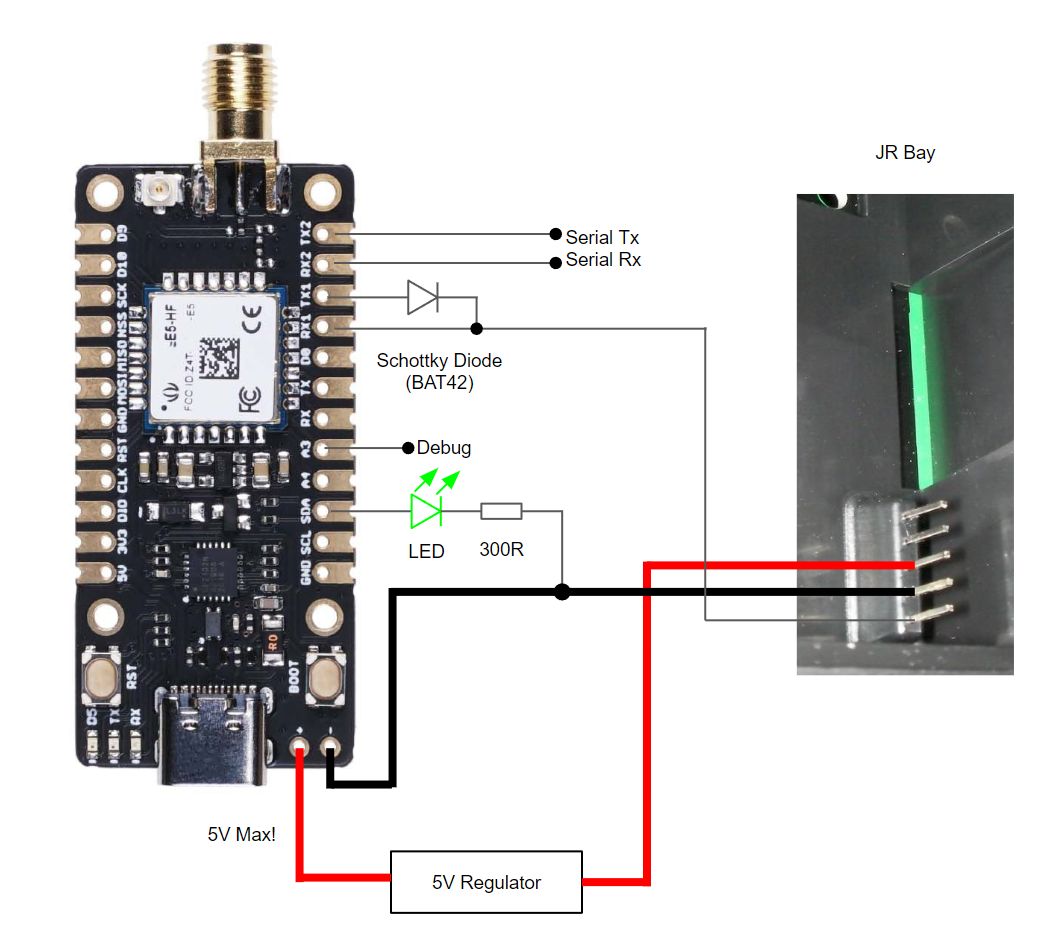
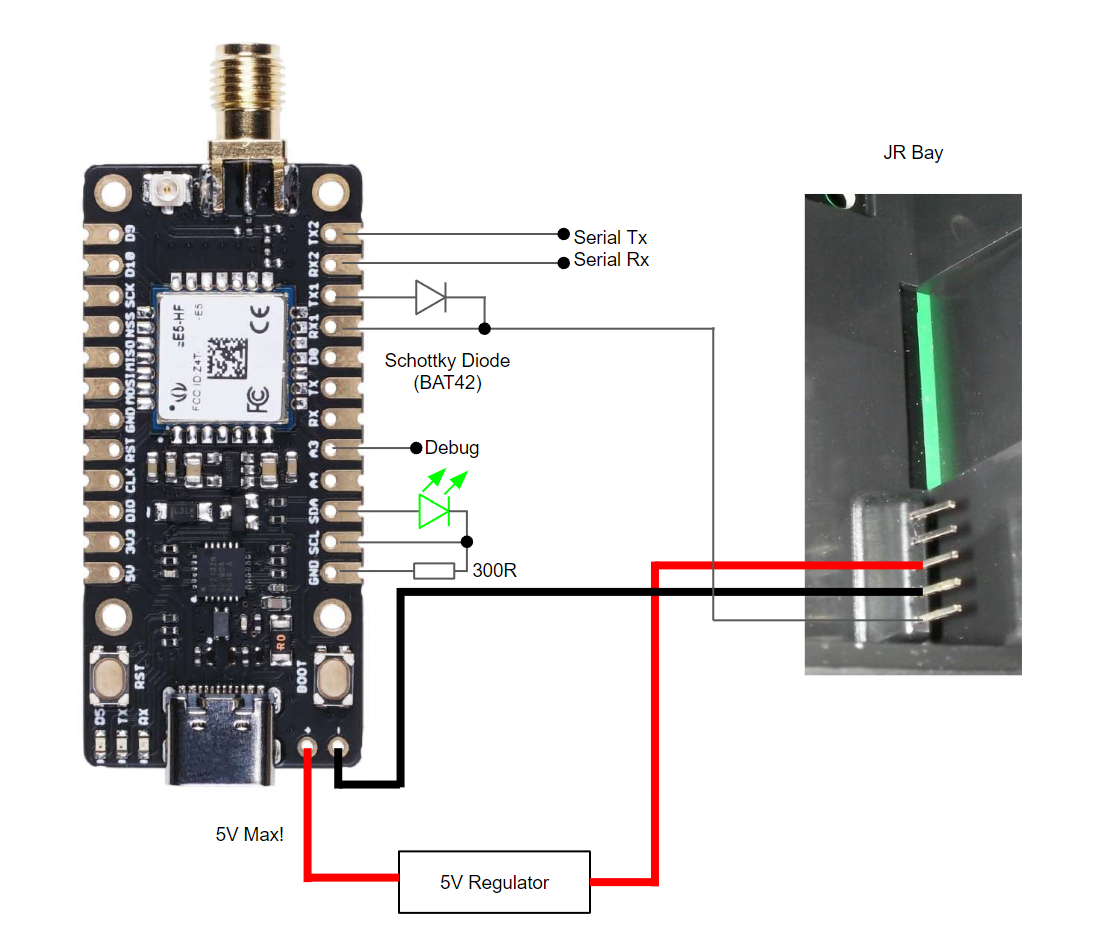
Seeed E5 Image Update (#20)
* Image Update

* Fix CRSF link too

* LED Update

Changed region(s): [[0.0607, 0.0309, 0.9706, 0.9872], [0.8493, 0.216, 0.8796, 0.2468]]

diff --git a/docs/CRSF.md b/docs/CRSF.md
@@ -94,7 +94,7 @@ Set the following parameters using the CLI or Lua script:
 
 ## Yaapu Telemetry App Setup for EdgeTX/OpenTX
 
-In EdgeTX/OpenTX go to MDL->TELEMETRY and select "Discover new sensors". You should see sensors appearing; mLRS currently provides 28 sensors. ([CRSF Sensors](docs/CRSF_SENSORS.md))
+In EdgeTX/OpenTX go to MDL->TELEMETRY and select "Discover new sensors". You should see sensors appearing; mLRS currently provides 28 sensors. ([CRSF Sensors](CRSF_SENSORS.md))
 
 Install the Yaapu app exactly as described in its wiki. Note: You need to install the dev version, the stable release version will not work. You need to enable the CRSF support: Start the "Yaapu Config" script in SYS->TOOLS, and set "enable CRSF support: yes" (then repower the radio). You can check if all is good by running the "Yaapu Debug CRSF" script in SYS->TOOLS.
 
